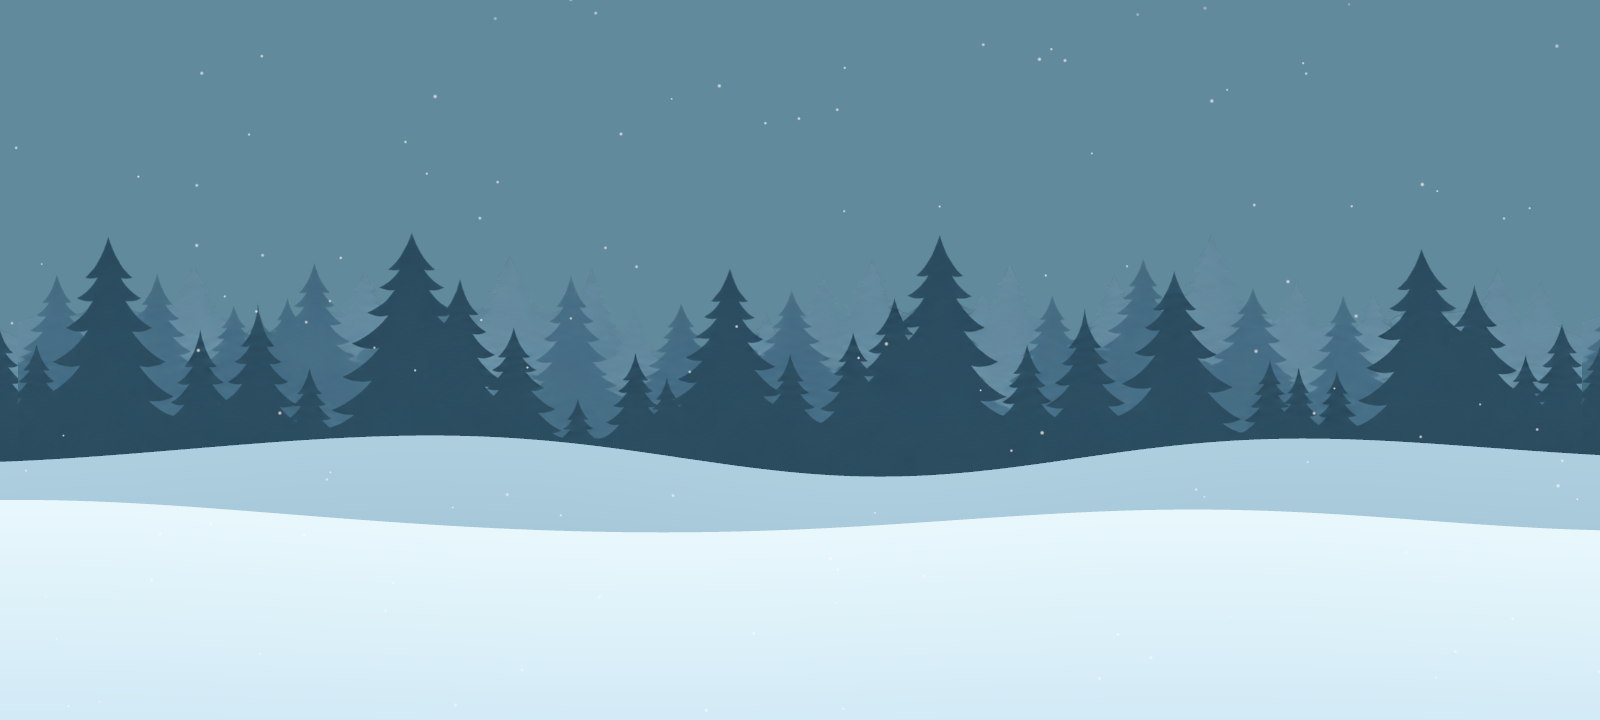
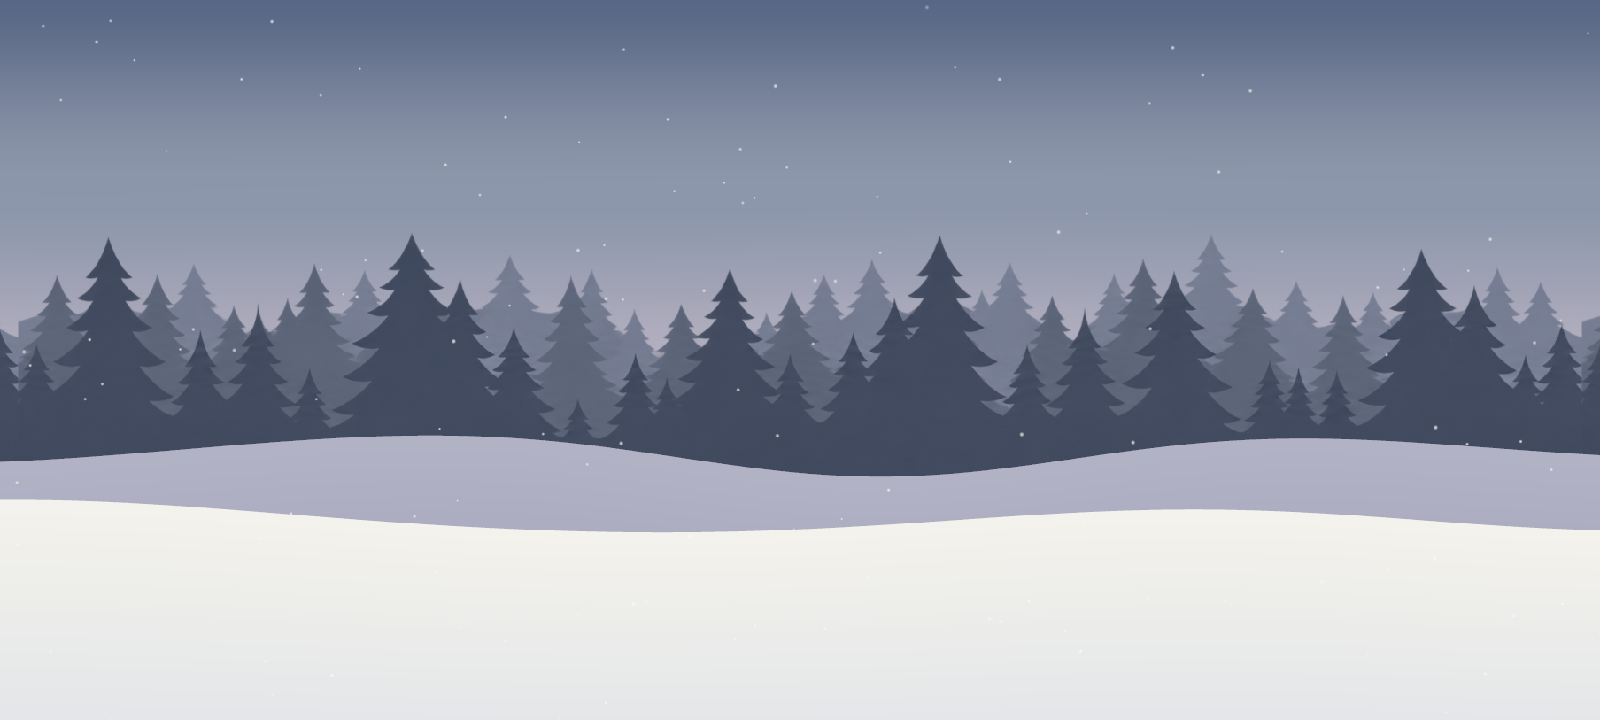
Add soft twilight sky gradient and static haze with matching winter palette

diff --git a/README.md b/README.md
@@ -9,8 +9,9 @@
 на горизонтальную ориентацию. Механики игры пока не добавлены.
 
 Камера: Orthographic Size = 6, Y = −0.25. Ширина обзора составляет 21.33 единицы
-при 16:9 и 26.67 при 20:9 (на 20% больше первоначального обзора). Небо — мягкий
-серо-голубой RGB (0.38, 0.545, 0.61). Снежинки имеют размер 0.055–0.105,
+при 16:9 и 26.67 при 20:9 (на 20% больше первоначального обзора). Небо — вечерний
+градиент с лёгкой статичной дымкой, настраиваемый в материале EveningSky.
+Снежинки имеют размер 0.055–0.105,
 начальную непрозрачность 0.85–1 и время жизни 28–34 секунды; частота появления
 сохранена на уровне 8 частиц/с. Эмиттер поднят до Y=6.4 для нового обзора.
 
@@ -18,12 +19,40 @@
 
 | Объект / компонент | Что менять |
 | --- | --- |
-| Main Camera / Camera | Background — цвет отдельного неба; Orthographic Size — высота обзора |
+| Main Camera / Camera | Orthographic Size — высота обзора; Background — резервный цвет за объектом неба |
+| Environment / 00 - Evening Sky and Static Haze / материал EveningSky | Три цвета градиента, высоты переходов, цвет и прозрачность дымки, высота полос и мягкость краёв |
 | Environment / 01 - Background Forest | Положение леса; три SpriteRenderer расширяют поле по горизонтали |
+| Forest Center / материал Forest | Dark Forest Row и Light Forest Row — сумеречная палитра рядов с сохранением исходной текстуры и её альфа-канала |
 | Forest Base / MeshRenderer / материал ForestBase | Цвет подложки под непрозрачным низом леса |
 | Far Hill / SnowTerrain | Дальний декоративный холм, без коллайдера |
 | Near Hill / SnowTerrain | Ближний снег и PolygonCollider2D |
 | 03 - Gentle Snowfall / Particle System | Emission — количество; Main — размер, цвет, время жизни; Velocity over Lifetime — скорость падения |
+
+## Вечернее небо и дымка
+
+Небо — сохранённый Quad 80×30 с материалом
+`Assets/Materials/Environment/EveningSky.mat` и шейдером
+`Assets/Shaders/Environment/WinterSky.shader`. Новых растровых картинок нет.
+Верхний цвет — приглушённый синий (0.34, 0.40, 0.52), средний — сине-серый
+(0.55, 0.59, 0.67), горизонт — серо-лавандовый (0.72, 0.70, 0.76).
+
+Все параметры доступны в Inspector материала:
+
+- `Upper Evening Blue`, `Middle Blue Gray`, `Horizon Gray Lavender` — цвета неба.
+- `Horizon / Middle / Top Height` — высоты цветовых переходов в мировых единицах.
+- `Haze Color`, `Haze Opacity` — цвет и интенсивность дымки; текущая прозрачность 0.065.
+- `Main Haze Height` — высота основной полосы, сейчас Y=0.25.
+- `Haze Edge Softness` — мягкость размытых краёв, сейчас 0.45.
+- `Haze Band Spacing`, `Haze Edge Irregularity` — расстояние и неровность трёх широких полос.
+
+Дымка вычисляется вместе с небом без анимации и использования времени.
+Порядок отрисовки неба −100: дымка всегда за лесом (−20), дальним снегом (0),
+ближним снегом (10) и снежинками (30). Это фон, а не эффект поверх игровой сцены.
+При расширении камеры за пределы текущего неба увеличьте Quad равномерно по нужной
+оси: высоты градиента и дымки заданы в мировых координатах и от масштаба Quad не зависят.
+
+Передний снег: мягкий тёплый белый у поверхности (0.955, 0.95, 0.925) с лёгким
+холодным оттенком к низу. Дальний снег: серо-лавандовый (0.70, 0.70, 0.775).
 
 Параметры **SnowTerrain** пересоздают форму прямо в редакторе:
 
@@ -58,9 +87,13 @@
 Центральная полоса имеет ширину 26.064
 единицы; слева и справа сохранены дополнительные копии той же полосы. Подложка
 шириной 100 уходит от Y=−2.3 до −10.5 и перекрывается с плотной нижней частью
-изображения, заканчивающейся на Y=−2.994. Цвет подложки согласован с новым PNG
-(RGB 43, 77, 96). Её верх скрыт лесом и дальним снегом.
+изображения, заканчивающейся на Y=−2.994. Цвет подложки согласован с сумеречной
+палитрой материала Forest (0.25, 0.29, 0.37). Её верх скрыт лесом и дальним снегом.
 Поэтому понижение снежного края не открывает пустоту под картинкой.
+
+`Assets/Shaders/Environment/ForestPalette.shader` переводит яркость исходного PNG
+в диапазон между тёмным и светлым цветом материала Forest, сохраняя детали,
+различимость рядов и прозрачность. Сам PNG и исходник в ArtSource не изменены.
 
 При значительном изменении камеры или размеров поля нужно согласовать ширину
 холмов, низ заливки, подложку и ширину эмиттера. Текущая камера имеет высоту 12,
@@ -68,9 +101,13 @@
 
 ## Проверка
 
-Проверено в открытом Unity Editor через активный сервер Pipeline:
+Палитра и небо настроены и проверены в открытом Unity Editor через Unity MCP
+(`tools/call`, включая `script_eval` и `capture_game_view`):
 
-- Game View в Play Mode: 16:9 (1920×1080) и 20:9 (1600×720).
+- Game View в Play Mode: 16:9 (1600×900) и 20:9 (1600×720).
+- Оба шейдера поддерживаются текущим рендерером; ShaderUtil не возвращает ошибок
+  или предупреждений. Все материалы и ссылки назначены; дымка рисуется за всеми
+  слоями леса и снега. Console без ошибок и предупреждений.
 - Небо видно через прозрачный лес; чёрного фона, открытых стыков и плоской
   видимой верхней границы подложки нет. Снег заполняет оба слоя до низа.
 - Повторная генерация даёт идентичные вершины; коллайдер использует те же точки.
